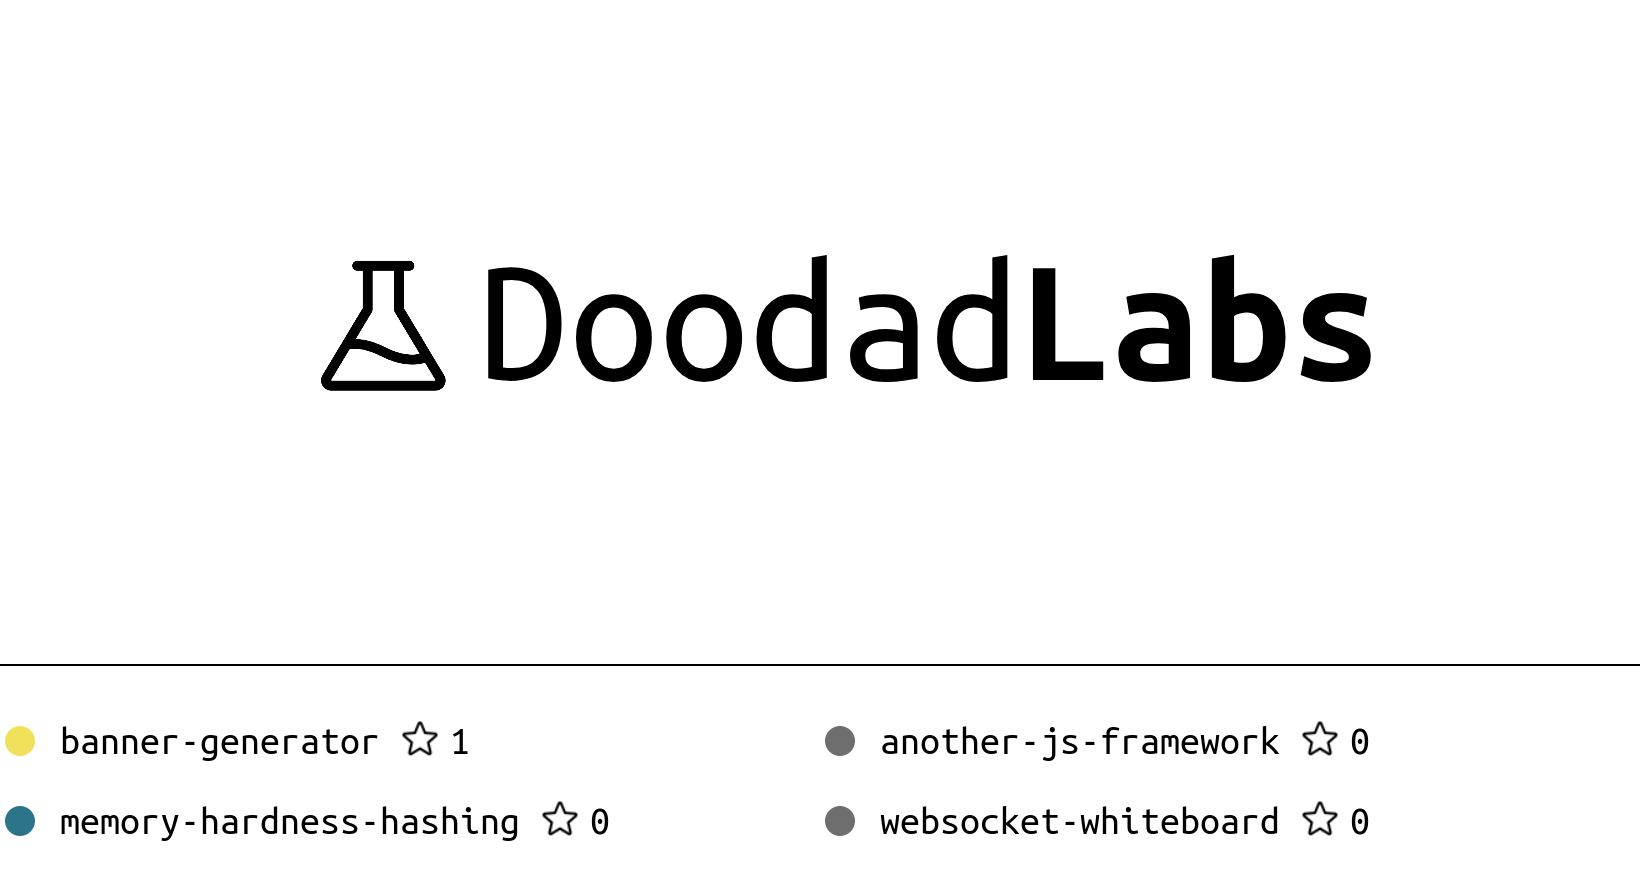
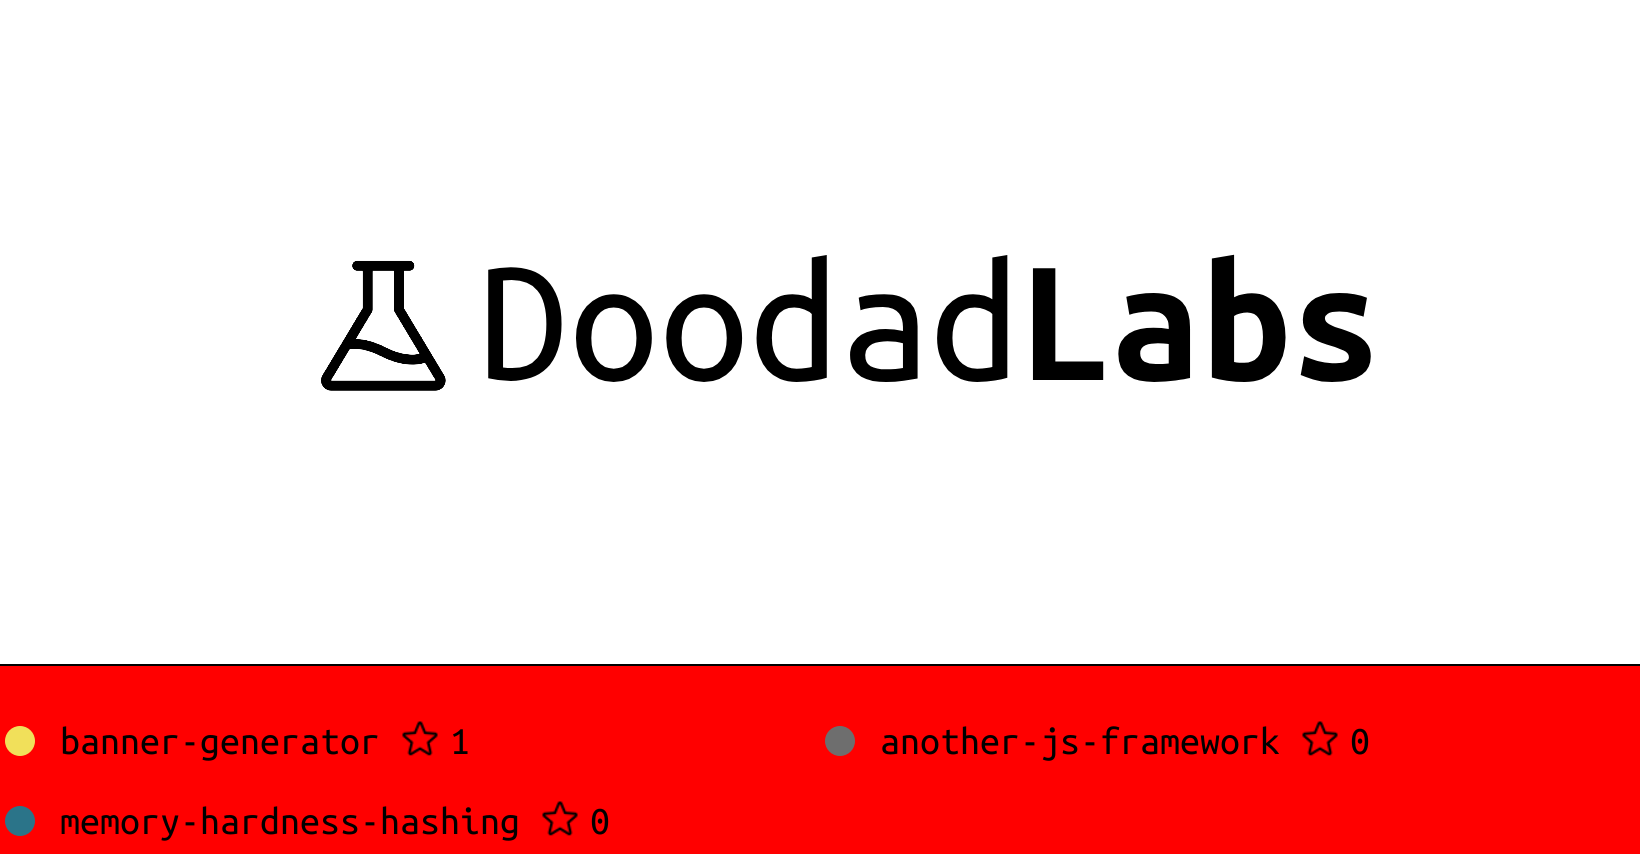
Add dark theme support for image generation and new assets

diff --git a/generate-image.js b/generate-image.js
@@ -8,7 +8,7 @@ registerFont('UbuntuMono.ttf', { family: 'Ubuntu Mono', weight: 'normal', style:
 
 const GITHUB_USERNAME = process.env.GITHUB_USERNAME;
 const WIDTH = 1640;
-let HEIGHT = 664;
+const INIT_HEIGHT = 664;
 const MAX_NAME_LENGTH = 26;
 
 async function svgToPng(svgPathOrUrl) {
@@ -47,23 +47,25 @@ async function fetchRepos() {
 }
 
 async function loadImages() {
-    const [starPngBuffer, logo] = await Promise.all([
+    const [starPngBuffer, logo, logo_dark] = await Promise.all([
         svgToPng('star.svg'),
-        loadImage('logo.png')
+        loadImage('logo.png'),
+        loadImage('logo@dark.png')
     ]);
     return {
         star: await loadImage(starPngBuffer),
-        logo
+        logo,
+        logo_dark
     };
 }
 
-function drawRepo(ctx, repo, x, y, star) {
+function drawRepo(ctx, theme, repo, x, y, star) {
     ctx.beginPath();
     ctx.arc(x, y - 13, 15, 0, 2 * Math.PI);
     ctx.fillStyle = languageColours[repo.language] || '#6e6e6e';
     ctx.fill();
 
-    ctx.fillStyle = '#000';
+    ctx.fillStyle = theme === 'light' ? 'black' : 'white';
     const name = `${repo.name.substring(0, MAX_NAME_LENGTH)}${repo.name.length > MAX_NAME_LENGTH ? '...' : ''}`;
     ctx.fillText(name, x + 40, y);
 
@@ -71,19 +73,19 @@ function drawRepo(ctx, repo, x, y, star) {
     ctx.fillText(formatNumber(repo.stars), x + 40 + (name.length * 20) + 70, y);
 }
 
-async function generateImage() {
+async function generateImage(theme) {
     const repos = await fetchRepos();
     console.log(`Fetched ${repos.length} repos`);
-    HEIGHT += ((repos.length * 85) / 2) + 40;
+    const HEIGHT = INIT_HEIGHT + ((repos.length * 100) / 2) + 40;
 
     const canvas = createCanvas(WIDTH, HEIGHT);
     const ctx = canvas.getContext('2d');
-    const { star, logo } = await loadImages();
+    const { star, logo, logo_dark } = await loadImages();
 
-    ctx.fillStyle = 'white';
+    ctx.fillStyle = theme === 'light' ? 'red' : '#0d1117';
     ctx.fillRect(0, 0, WIDTH, HEIGHT);
-    ctx.drawImage(logo, 0, 0, WIDTH, 664);
-    ctx.fillStyle = '#000';
+    ctx.drawImage(theme === 'light' ? logo : logo_dark, 0, 0, WIDTH, 664);
+    ctx.fillStyle = theme === 'light' ? 'black' : 'white';
     ctx.fillRect(0, 664, WIDTH, 2);
     ctx.font = '40px "Ubuntu Mono"';
 
@@ -91,13 +93,14 @@ async function generateImage() {
     repos.forEach((repo, index) => {
         const onRight = index % 2 !== 0;
         const x = 20 + (onRight ? WIDTH / 2 : 0);
-        drawRepo(ctx, repo, x, y, star);
+        drawRepo(ctx, theme, repo, x, y, star);
         if (onRight) y += 80;
     });
 
     const buffer = canvas.toBuffer('image/png');
-    fs.writeFileSync('banner.png', buffer);
+    fs.writeFileSync(`banner${theme === 'dark' ? "@dark" : ""}.png`, buffer);
     console.log('Image generated: banner.png');
 }
 
-generateImage().catch(console.error);
+generateImage('light').catch(console.error);
+generateImage('dark').catch(console.error);
